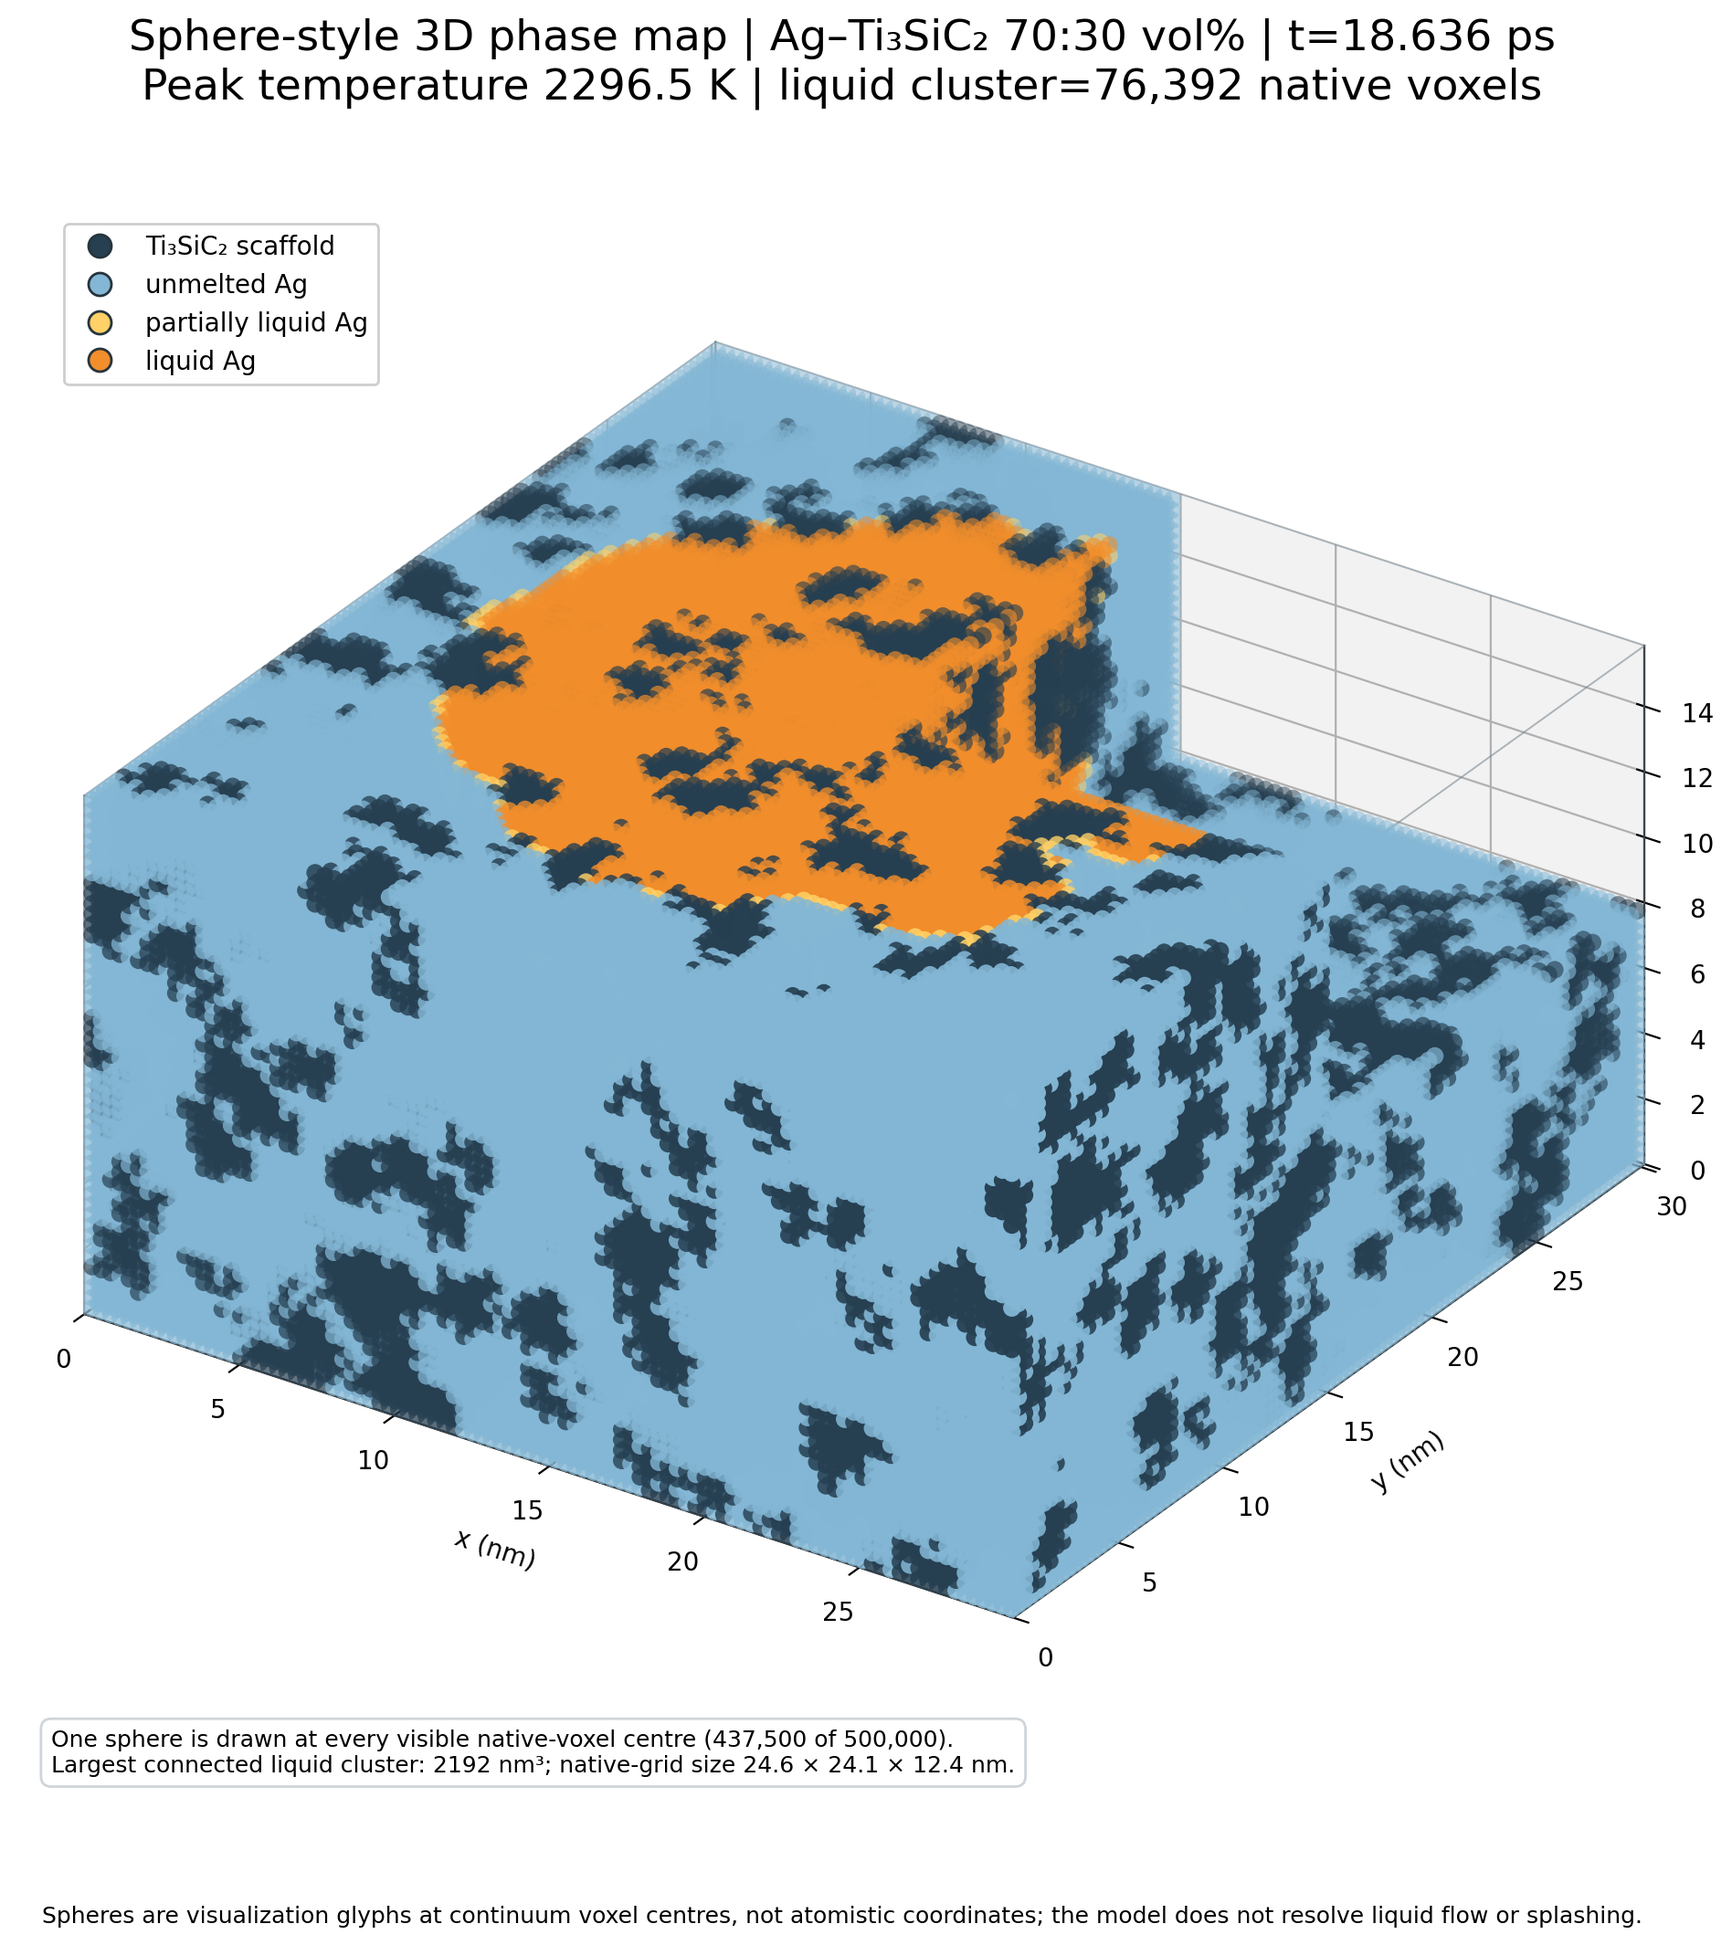
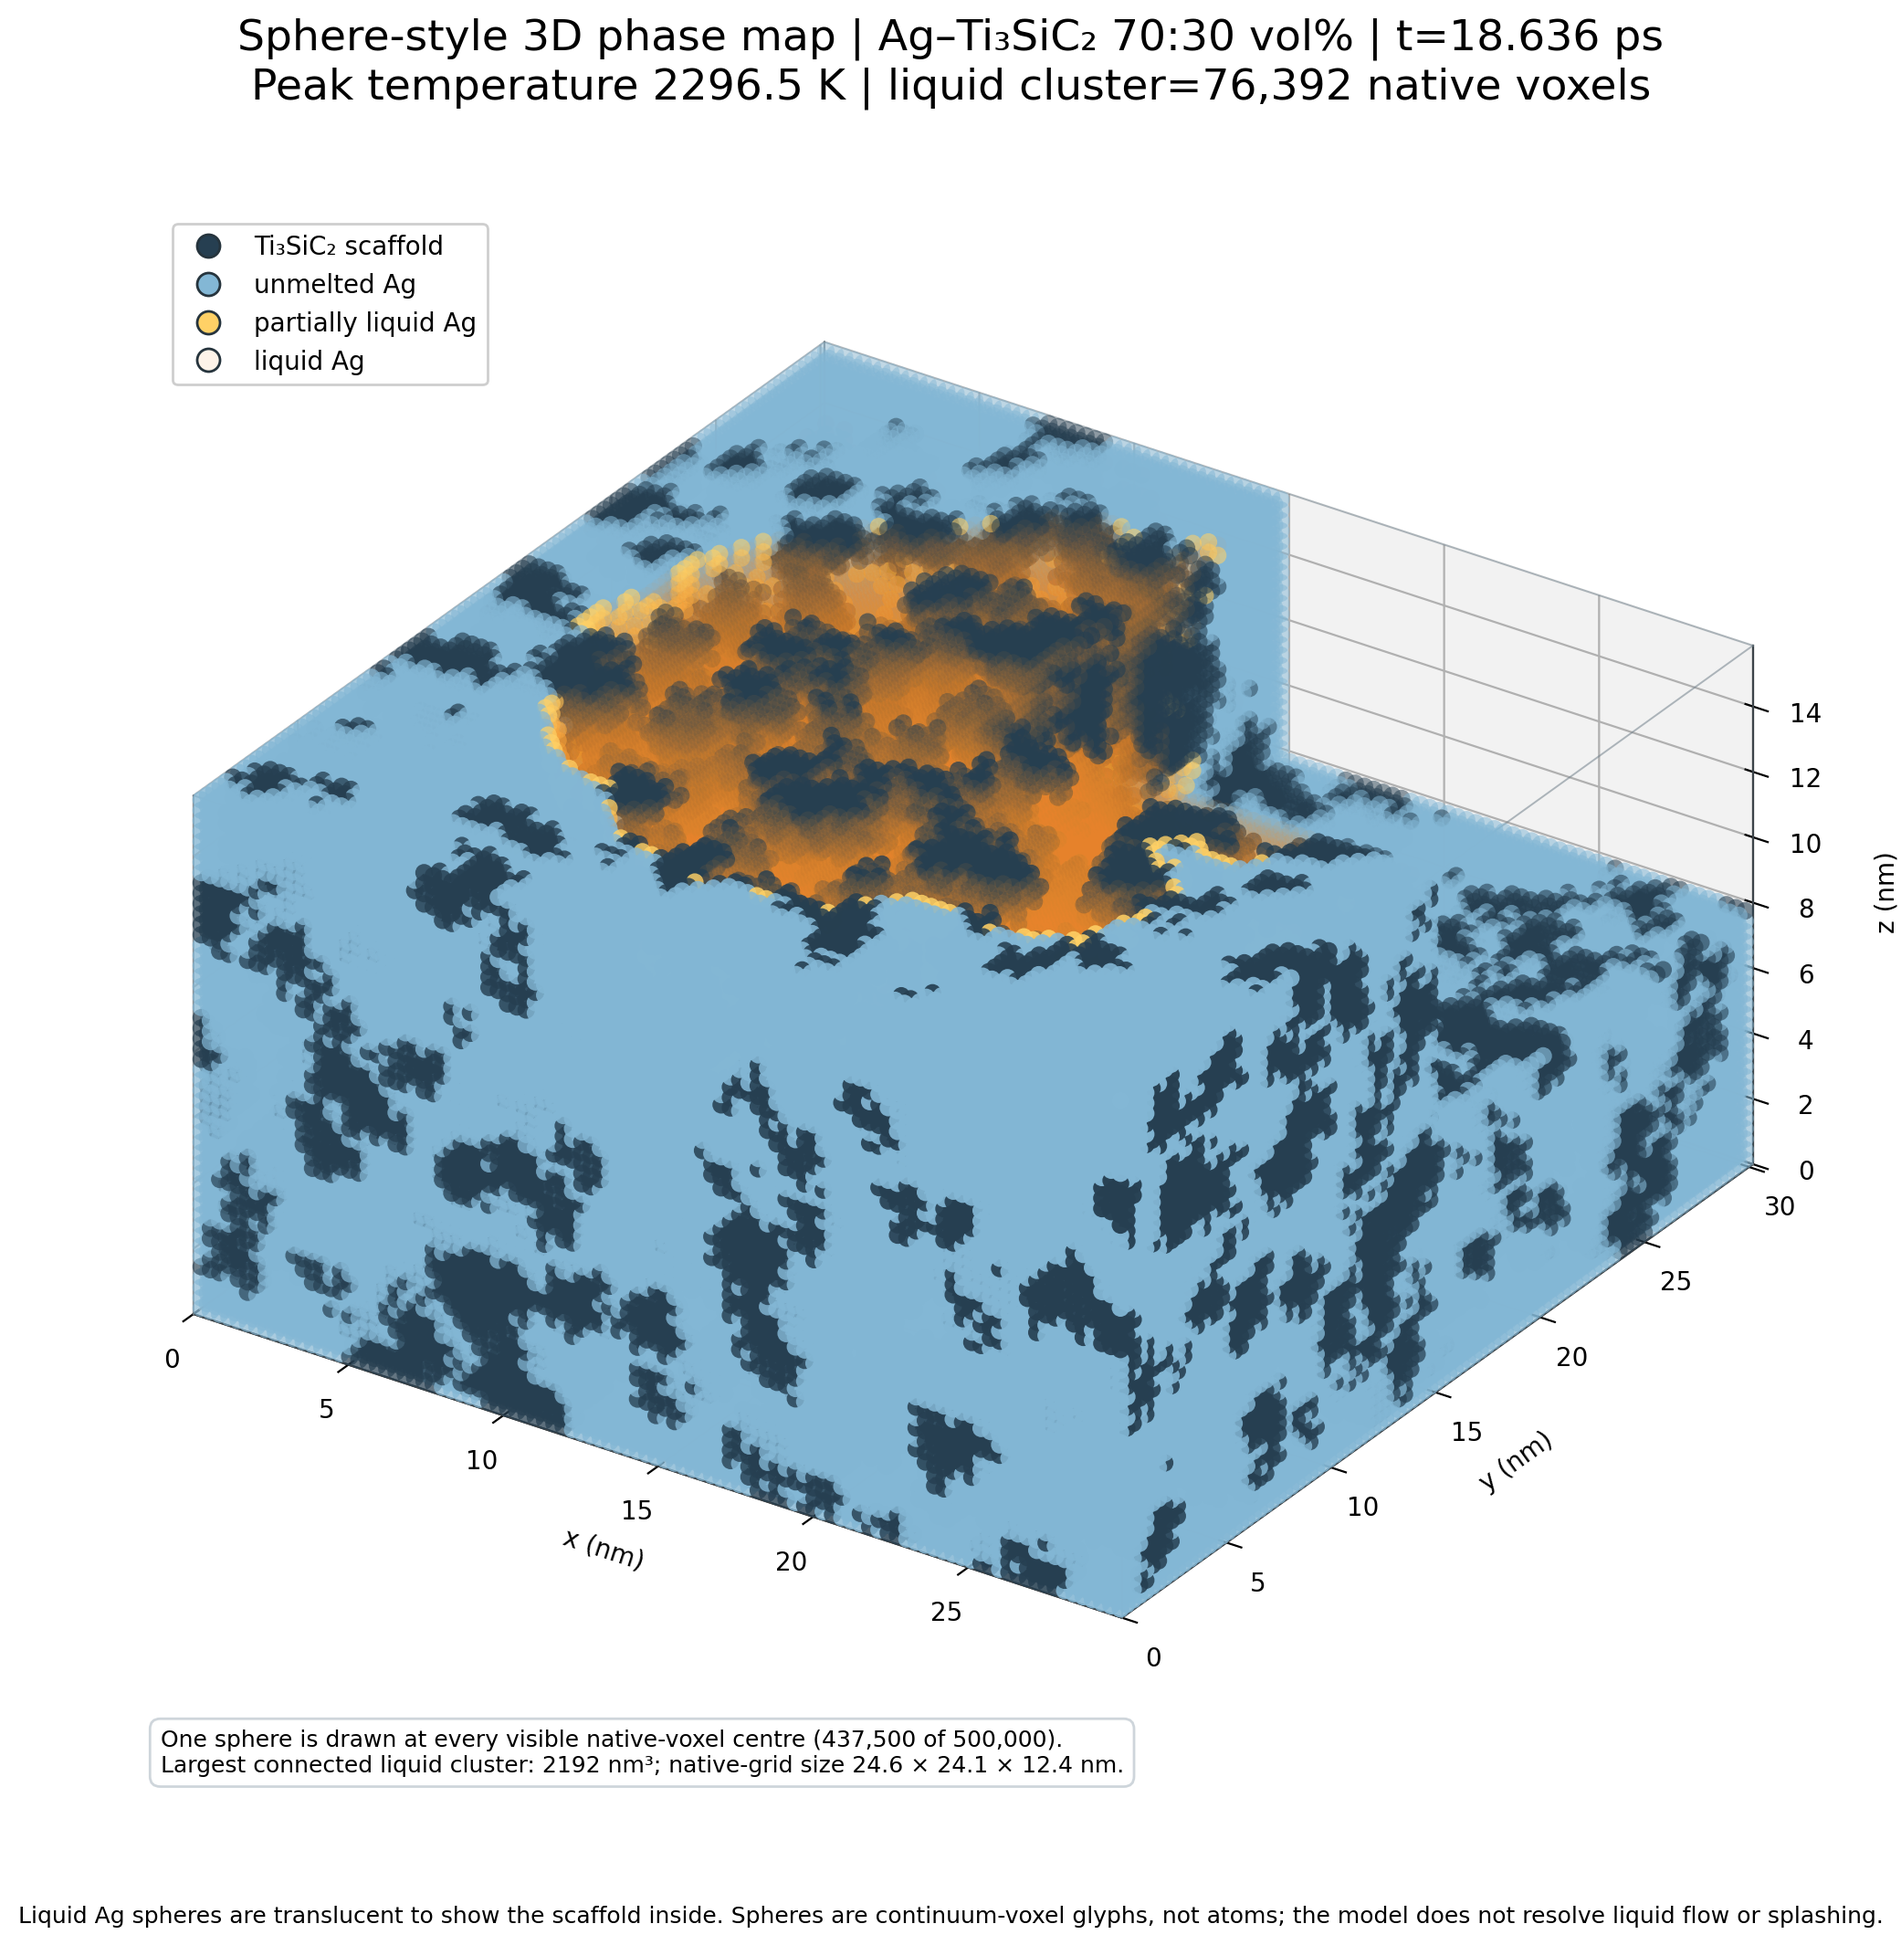
Make liquid Ag spheres transparent

diff --git a/models/ag_ti3sic2_qsgs_1to1_finer/runs/single_temperature_mesh2_validation_20261027/ag70vol_1x_continue_to_2300K_20261028/render_atom_style_phase_3d.py b/models/ag_ti3sic2_qsgs_1to1_finer/runs/single_temperature_mesh2_validation_20261027/ag70vol_1x_continue_to_2300K_20261028/render_atom_style_phase_3d.py
@@ -90,6 +90,7 @@ def main() -> None:
     )
     points = centres(visible, spacing_nm)
     phase_colors = np.array([matplotlib.colors.to_rgba(color) for color, _ in phase_specs])
+    phase_colors[3, 3] = 0.10  # translucent liquid Ag reveals the scaffold behind it
     point_colors = phase_colors[np.where(scaffold, 0, np.where(partial, 2, np.where(liquid, 3, 1)))[visible]]
     ax.scatter(
         points[:, 0], points[:, 1], points[:, 2],
@@ -109,8 +110,9 @@ def main() -> None:
     ax.grid(True, alpha=0.2)
     ax.legend(
         handles=[Line2D([0], [0], marker="o", linestyle="", markersize=9,
-                        markerfacecolor=color, markeredgecolor="#26343d", label=label)
-                 for color, label in phase_specs],
+                        markerfacecolor=matplotlib.colors.to_rgba(color, 0.10 if i == 3 else 1.0),
+                        markeredgecolor="#26343d", label=label)
+                 for i, (color, label) in enumerate(phase_specs)],
         loc="upper left", bbox_to_anchor=(0.02, 0.98), framealpha=0.96, fontsize=10,
     )
     time_ps = float(metadata["time_ps"])
@@ -129,7 +131,7 @@ def main() -> None:
     )
     fig.text(
         0.5, 0.012,
-        "Spheres are visualization glyphs at continuum voxel centres, not atomistic coordinates; "
+        "Liquid Ag spheres are translucent to show the scaffold inside. Spheres are continuum-voxel glyphs, not atoms; "
         "the model does not resolve liquid flow or splashing.",
         ha="center", fontsize=9,
     )

diff --git a/models/ag_ti3sic2_qsgs_1to1_finer/runs/single_temperature_mesh2_validation_20261027/ag70vol_1x_continue_to_2300K_20261028/README_3D_IMAGE.md b/models/ag_ti3sic2_qsgs_1to1_finer/runs/single_temperature_mesh2_validation_20261027/ag70vol_1x_continue_to_2300K_20261028/README_3D_IMAGE.md
@@ -4,7 +4,7 @@ These images use the saved 1x Case A heating checkpoint at **18.636 ps**. Orange
 
 The phase-aware 3D view renders all four phase classes as solid, color-coded voxel blocks rather than point clouds. It uses one representative native voxel from each 4 × 4 × 4 region for a legible full-volume view, with a corner cutaway exposing the interior phases. The reported pool metrics below are computed from the full native grid, not the display sampling.
 
-The sphere-style view draws a shaded spherical glyph at every visible native voxel centre, with one consistent sphere size and a different color for each phase. These spheres visualize the continuum grid; they are not atomistic coordinates.
+The sphere-style view draws a shaded spherical glyph at every visible native voxel centre, with one consistent sphere size and a different color for each phase. Liquid Ag spheres are translucent so the Ti₃SiC₂ scaffold can be seen through the pool. These spheres visualize the continuum grid; they are not atomistic coordinates.
 
 At this checkpoint the peak temperature is **2296.53 K**, the Ag-phase liquid fraction is **21.87%**, and the main connected pool contains **76,392 voxels (2191.8 nm³)**. Its axis-aligned dimensions are approximately **24.57 × 24.15 × 12.37 nm** (x × y × z). The horizontal slice at z = 11.26 nm distinguishes Ti3SiC2 scaffold, unmelted Ag, partially liquid Ag, and liquid Ag.
 
